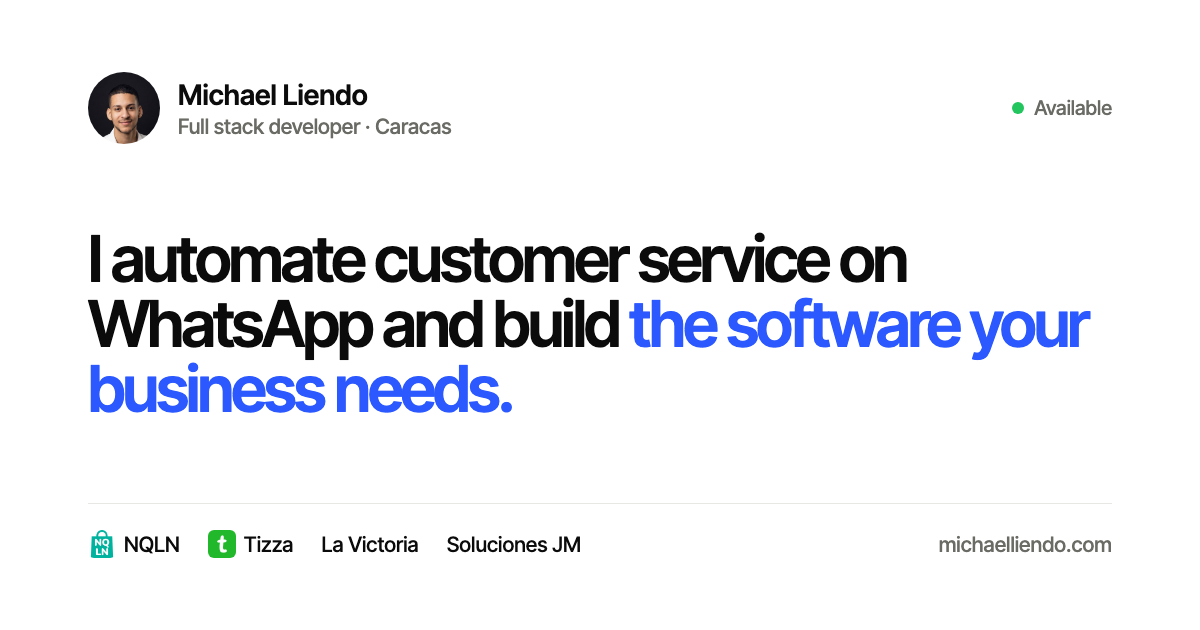
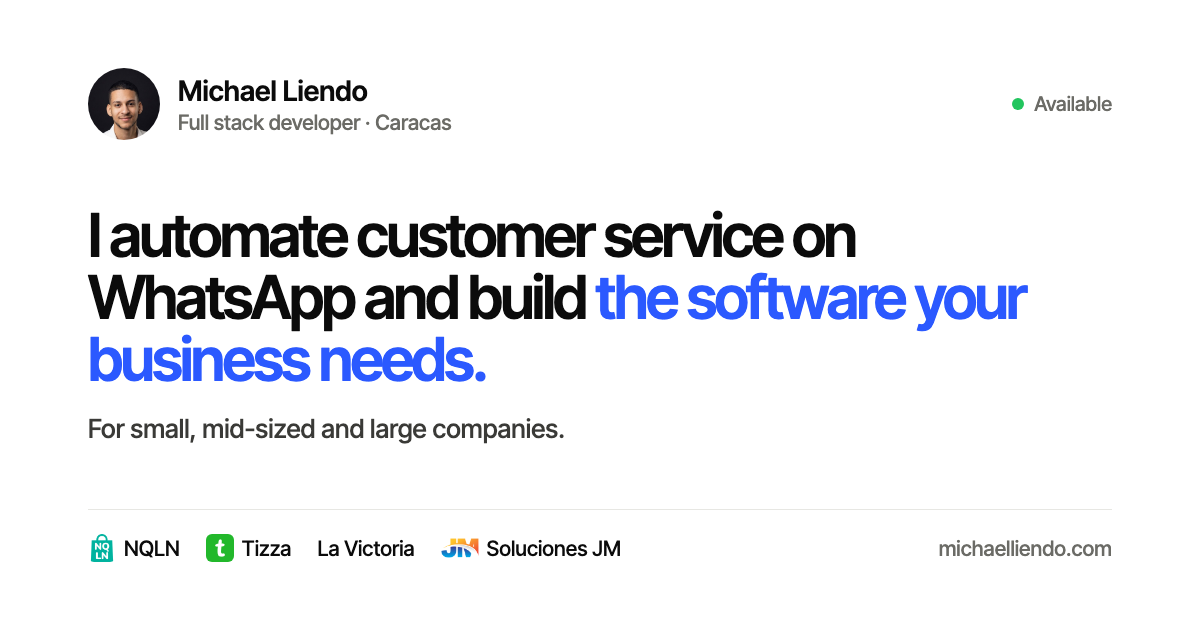
feat: Victor's testimonial, quotes in the site style, refreshed share cards
- First testimonial on the home page: Victor, owner of La Victoria (no last
  name, per Michael); a single testimonial spans the row with a larger quote
- Note blockquotes use the white and blue style instead of the old yellow
- Open Graph images add "Para empresas pequeñas, medianas y grandes" and the
  Soluciones JM logo

diff --git a/src/routes/[[lang=lang]]/+page.svelte b/src/routes/[[lang=lang]]/+page.svelte
@@ -303,16 +303,22 @@
     <p class="label">{t.testimonials.label}</p>
     <h2 id="testimonios-t" class="section-title">{t.testimonials.title}</h2>
     <ul
-      class="m-0 mt-11 grid list-none grid-cols-1 gap-4 p-0 {testimonials.length === 2 ||
-      testimonials.length === 4
-        ? 'md:grid-cols-2'
-        : 'md:grid-cols-2 lg:grid-cols-3'}"
+      class="m-0 mt-11 grid list-none grid-cols-1 gap-4 p-0 {testimonials.length === 1
+        ? ''
+        : testimonials.length === 2 || testimonials.length === 4
+          ? 'md:grid-cols-2'
+          : 'md:grid-cols-2 lg:grid-cols-3'}"
     >
       {#each testimonials as item (item.name)}
         <li class="flex">
           <figure class="m-0 flex w-full flex-col rounded-[24px] bg-surface-sunken p-7 sm:p-8">
             <span aria-hidden="true" class="text-[40px] font-semibold leading-none text-accent">“</span>
-            <blockquote class="m-0 mt-2 text-[20px] leading-[1.45] tracking-[-0.01em] text-ink">
+            <!-- A single testimonial spans the row, so it gets a larger quote. -->
+            <blockquote
+              class="m-0 mt-2 leading-[1.45] tracking-[-0.01em] text-ink {testimonials.length === 1
+                ? 'max-w-[900px] text-[22px] sm:text-[28px] sm:leading-[1.35]'
+                : 'text-[20px]'}"
+            >
               {item.quote}
             </blockquote>
             <figcaption class="mt-auto flex items-center gap-3 pt-7">

diff --git a/src/i18n/es/home.ts b/src/i18n/es/home.ts
@@ -111,7 +111,15 @@ export default {
 	testimonials: {
 		label: "Testimonios",
 		title: "Lo que dicen los clientes.",
-		items: [],
+		items: [
+			{
+				quote:
+					"Pasamos de 12 empleados a 3 y atendemos el doble de las personas que se atendían antes, con mayor rapidez. Ahora procesar todo lo que entra es extremadamente fácil.",
+				name: "Victor",
+				role: "Dueño",
+				company: "La Victoria",
+			},
+		],
 	},
 	process: {
 		label: "Proceso",

diff --git a/src/i18n/en/home.ts b/src/i18n/en/home.ts
@@ -114,7 +114,15 @@ export default {
 	testimonials: {
 		label: "Testimonials",
 		title: "What clients say.",
-		items: [],
+		items: [
+			{
+				quote:
+					"We went from 12 employees to 3, and we serve twice as many people as before, faster. Processing everything that comes in is now extremely easy.",
+				name: "Victor",
+				role: "Owner",
+				company: "La Victoria",
+			},
+		],
 	},
 	process: {
 		label: "Process",

diff --git a/src/lib/components/notes/custom/blockquote.svelte b/src/lib/components/notes/custom/blockquote.svelte
@@ -3,7 +3,7 @@ const { children } = $props();
 </script>
 
 <blockquote
-  class="p-2 text-black bg-yellow-100 border-l-yellow-600 border-l-[4px] rounded-tr-md rounded-br-md my-4"
+  class="my-6 rounded-r-xl border-l-[3px] border-accent bg-surface-sunken px-5 py-4 text-ink not-italic [&_p]:m-0 [&_p]:text-ink"
 >
   {@render children()}
 </blockquote>
